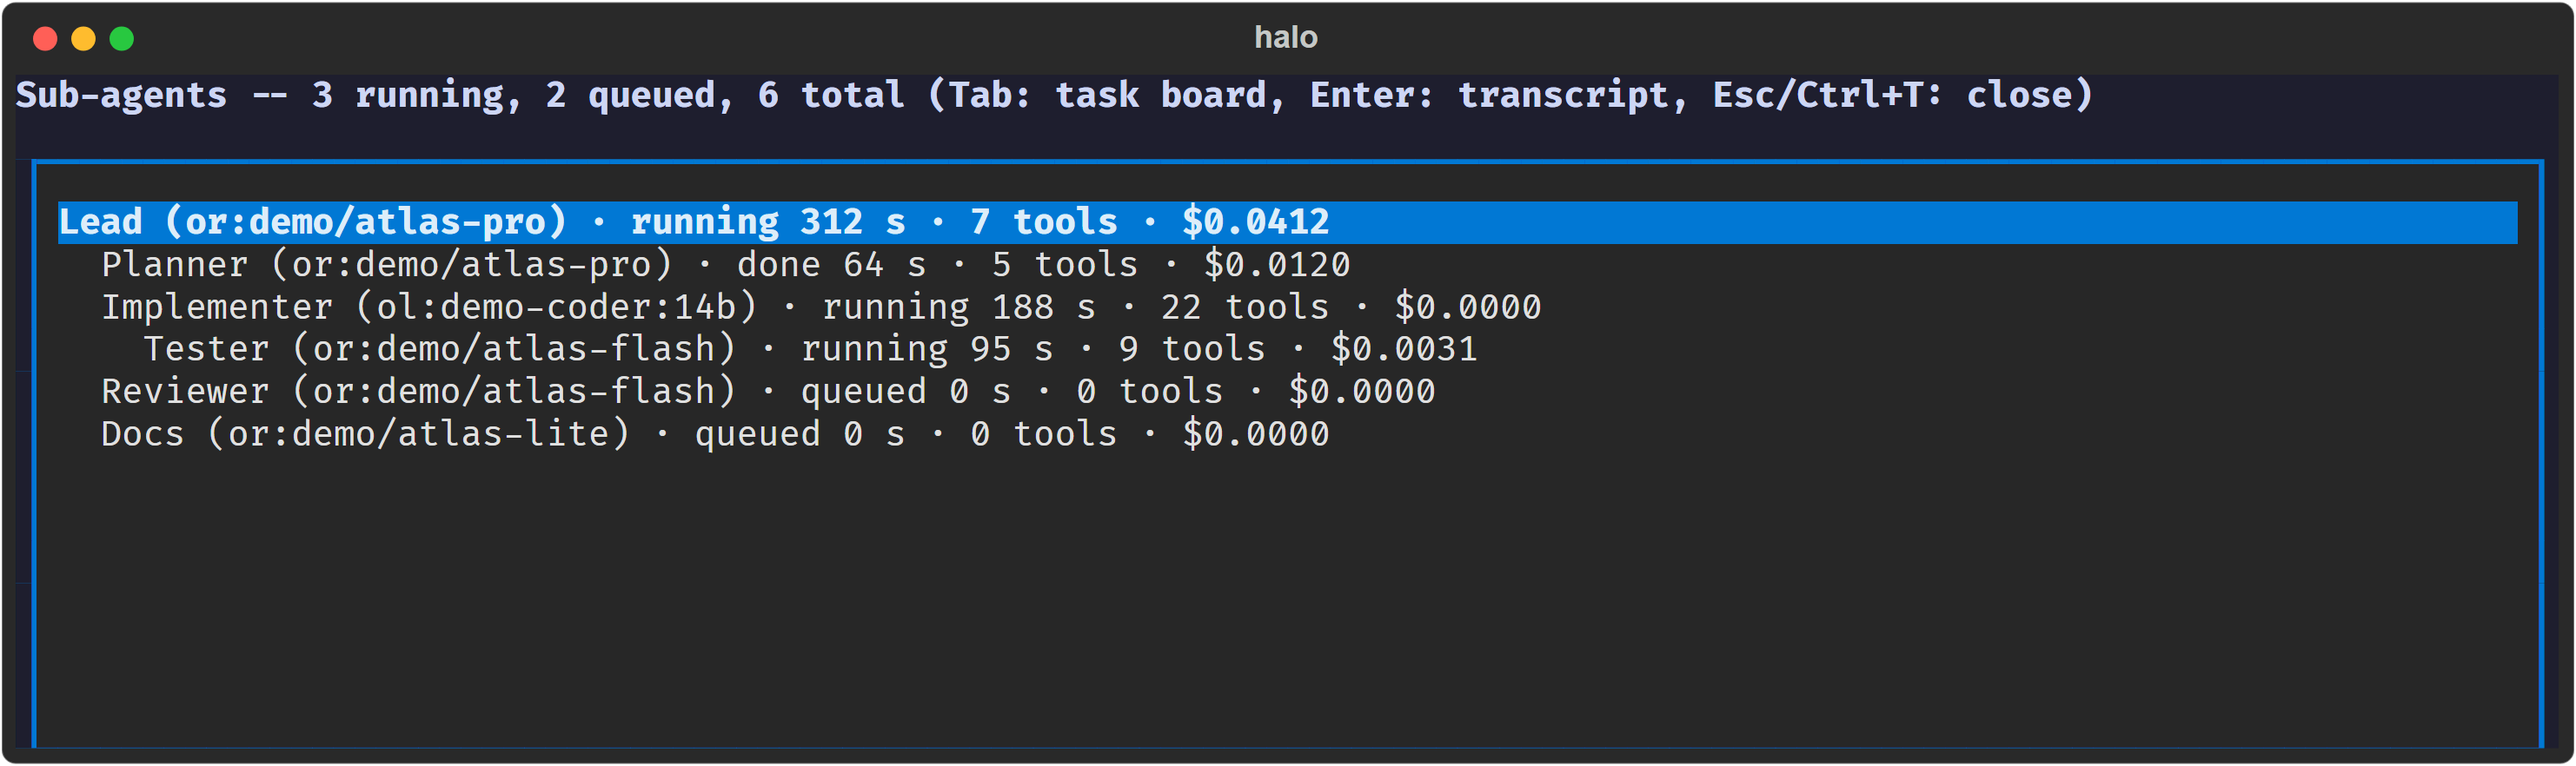
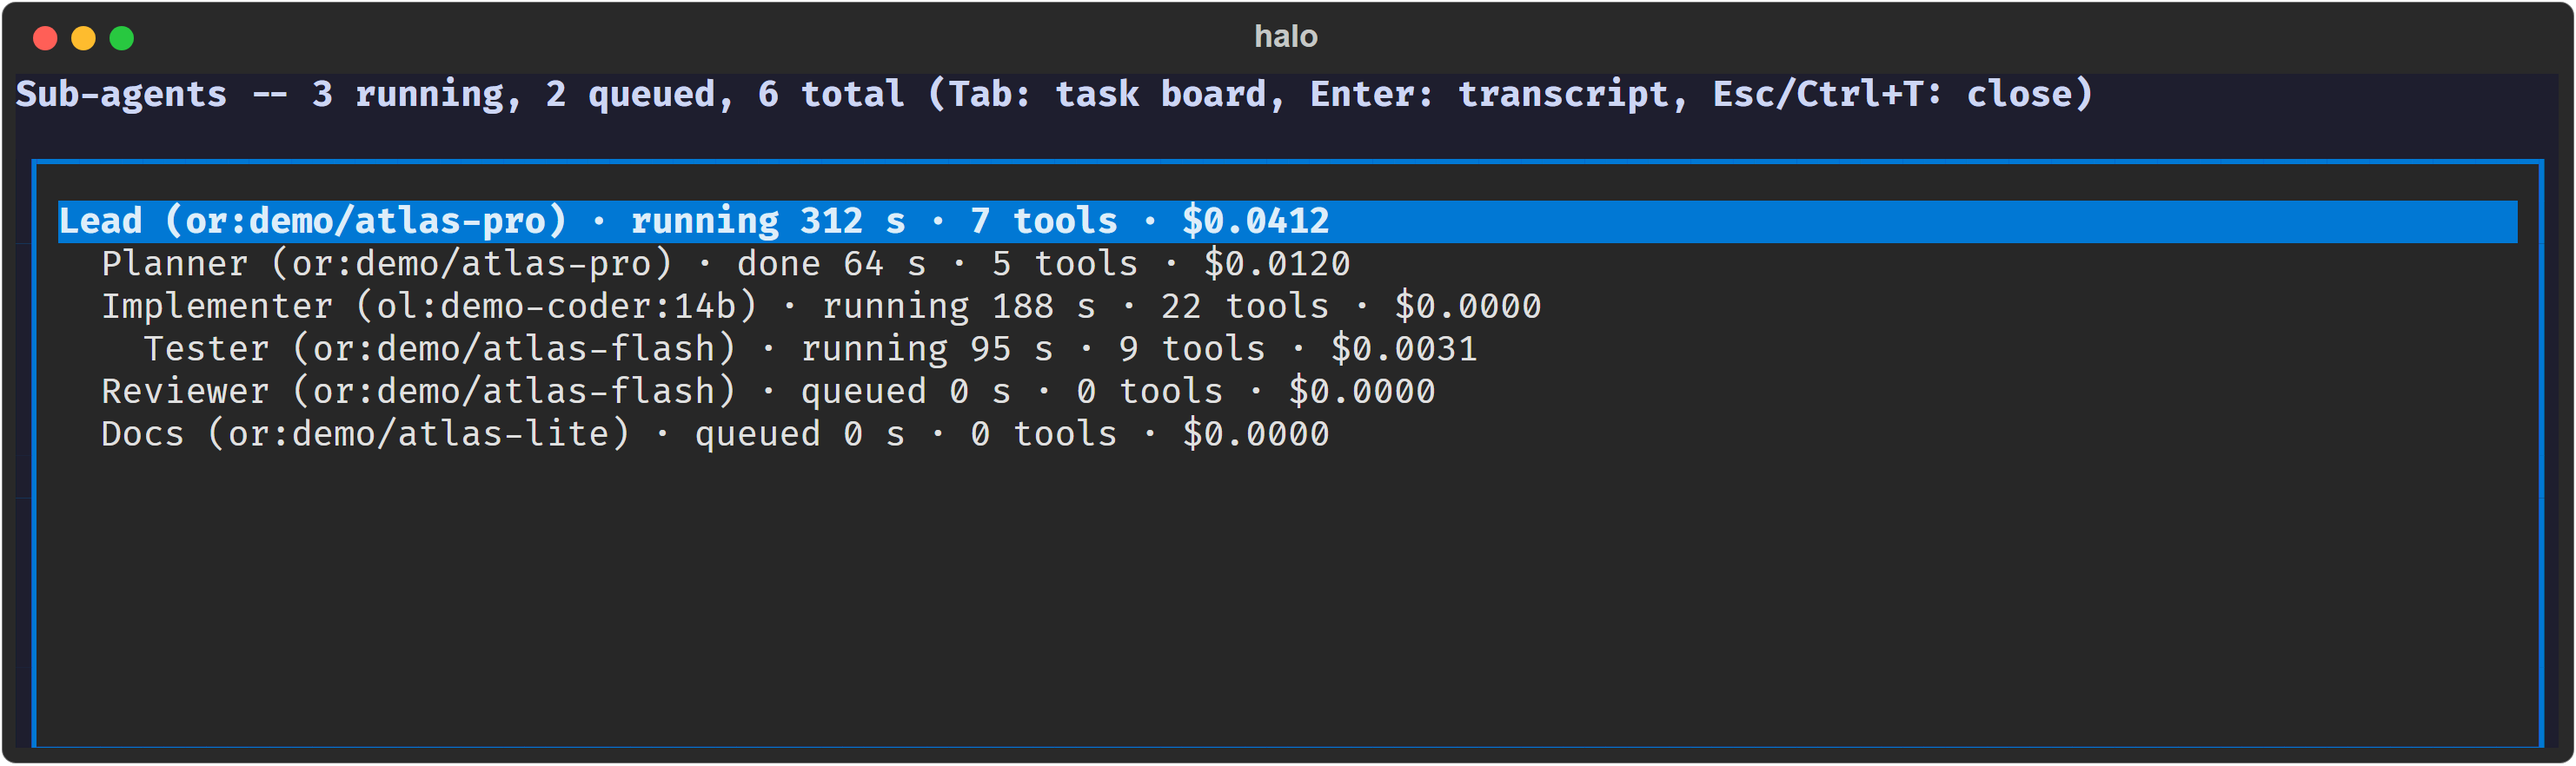
fix(media): 2.0.11 round A1 -- every generated SVG carries an explicit size
Textual's export writes a viewBox only; an SVG with no intrinsic size lays
out at ~300x150 px in any <img>, so GitHub's file view showed every capture
as a thumbnail. sized_svg() in scripts/screenshots.py adds width/height to
every export, the animation assembler writes them on its root, all 24
capture SVGs are regenerated, and test_front_page_media pins the attribute.

Claude-Session: https://claude.ai/code/session_01LrpUQGpHrLgRQyvGKrL11z

diff --git a/tests/test_front_page_media.py b/tests/test_front_page_media.py
@@ -106,6 +106,28 @@ def test_diagrams_and_hero_exist_and_are_small(ctx: Ctx):
 
 
 @test
+def test_every_svg_has_an_explicit_size(ctx: Ctx):
+    """2.0.11 round A1: a viewBox-only SVG has no intrinsic size, so an
+    <img> of it (GitHub's file view, the page a README click opens) lays it
+    out at about 300x150 px -- every capture showed as a thumbnail. The
+    export helper (`scripts/screenshots.py::sized_svg`) and the animation
+    assembler now write `width`/`height`; this pins every committed SVG."""
+    root = re.compile(r"<svg\b[^>]*>")
+    svgs = sorted(MEDIA.rglob("*.svg")) + sorted((REPO_DIR / "docs" / "screenshots").glob("*.svg"))
+    ctx.check(f"found the committed SVGs, got {len(svgs)}", len(svgs) >= 20)
+    for path in svgs:
+        tag = root.search(path.read_text(encoding="utf-8")[:4000])
+        head = tag.group(0) if tag else ""
+        ctx.check(f"{path.relative_to(REPO_DIR).as_posix()} root carries width and height",
+                  ' width="' in head and ' height="' in head)
+    sys.path.insert(0, str(REPO_DIR / "scripts"))
+    from screenshots import sized_svg
+    once = sized_svg('<svg class="rich-terminal" viewBox="0 0 1482 928.4" xmlns="x">\n</svg>')
+    ctx.check("sized_svg adds width/height from the viewBox", 'width="1482" height="928.4" viewBox="0 0 1482 928.4"' in once)
+    ctx.check("sized_svg is idempotent", sized_svg(once) == once)
+
+
+@test
 def test_media_carries_no_real_paths_hosts_or_versions(ctx: Ctx):
     bad = re.compile(r"C:\\Users|C:/Users|/home/[a-z]|/Users/[A-Za-z]|AppData|\b(?:10|192\.168|172\.(?:1[6-9]|2\d|3[01]))\.\d+\.\d+(?:\.\d+)?\b")
     for path in sorted(MEDIA.rglob("*.svg")):

diff --git a/scripts/screenshots.py b/scripts/screenshots.py
@@ -144,7 +144,25 @@ async def _export(app, pilot, stage=None) -> str:
         if getattr(app, "cwd", None):
             bar.cwd = str(app.cwd).replace("\\", "/")
         bar._refresh_display()
-    return re.sub(r"terminal-\d+-", "terminal-0-", app.export_screenshot())
+    return sized_svg(re.sub(r"terminal-\d+-", "terminal-0-", app.export_screenshot()))
+
+
+_VIEWBOX = re.compile(r'(<svg\b[^>]*?)\s+viewBox="0 0 ([\d.]+) ([\d.]+)"')
+
+
+def sized_svg(svg: str) -> str:
+    """Give the Textual export an explicit `width`/`height` matching its
+    viewBox (2.0.11 round A1). Textual writes a viewBox only; an SVG with
+    no intrinsic size is laid out at the replaced-element default of about
+    300x150 px wherever it sits in an <img> -- GitHub's file view, the page
+    a README click opens, showed every capture as a thumbnail. Idempotent:
+    a root tag that already carries a width is returned unchanged."""
+    m = _VIEWBOX.search(svg)
+    if not m or re.search(r'<svg\b[^>]*\bwidth=', svg[:m.end()]):
+        return svg
+    w, h = float(m.group(2)), float(m.group(3))
+    head = f'{m.group(1)} width="{w:g}" height="{h:g}" viewBox="0 0 {m.group(2)} {m.group(3)}"'
+    return svg[:m.start()] + head + svg[m.end():]
 
 
 async def _seed_bios() -> None:

diff --git a/tools/capture_screens.py b/tools/capture_screens.py
@@ -80,7 +80,8 @@ def assemble_animation(frames: "list[str]", seconds: "list[float]") -> str:
     cannot collide) whose `visibility` is stepped by a discrete <animate>."""
     width, height = viewbox(frames[0])
     total = sum(seconds)
-    out = [f'<svg class="rich-terminal" viewBox="0 0 {width:g} {height:g}" xmlns="http://www.w3.org/2000/svg">',
+    out = [f'<svg class="rich-terminal" width="{width:g}" height="{height:g}" viewBox="0 0 {width:g} {height:g}" '
+           'xmlns="http://www.w3.org/2000/svg">',
            f"<!-- {len(frames)} frames, {total:g} s loop; assembled by tools/capture_screens.py -->"]
     start = 0.0
     for i, (frame, dur) in enumerate(zip(frames, seconds)):

diff --git a/CHANGELOG.md b/CHANGELOG.md
@@ -8,6 +8,19 @@ across the 0.3.x line -- each 0.3.0 milestone below was a working
 checkpoint toward the single 0.3.0 release, not a separate published
 version.
 
+## [2.0.11] - unreleased
+
+### The front page
+
+- **Every generated SVG has an explicit size** (round A1). Textual's export
+  writes a `viewBox` only, and an SVG with no intrinsic size is laid out at
+  the replaced-element default of about 300x150 px wherever it sits in an
+  `<img>` -- GitHub's file view, the page a README click opens, showed every
+  capture as a thumbnail. `scripts/screenshots.py::sized_svg` now adds
+  `width`/`height` to every export (and the animation assembler to its root),
+  all 24 capture SVGs are regenerated, and `tests/test_front_page_media.py`
+  pins the attribute on every committed SVG so the bug cannot return.
+
 ## [2.0.10] - 2026-10-11
 
 ### Front page: real captures, diagrams, the stories

diff --git a/docs/MEDIA.md b/docs/MEDIA.md
@@ -44,6 +44,16 @@ PNG rendering needs Chrome or Chromium (`--headless=new`). The tool looks for
 SVGs, prints that the PNG step was skipped and exits 0; there is no Python
 dependency for any of this.
 
+## Every SVG carries an explicit size
+
+Textual's export writes a `viewBox` only. An SVG with no intrinsic size is
+laid out at about 300x150 px wherever it sits in an `<img>` -- GitHub's file
+view, the page a README click opens, rendered every capture as a thumbnail.
+`scripts/screenshots.py::sized_svg` adds `width`/`height` (the viewBox's own
+numbers) to every export, the animation assembler writes them on its root,
+and `tests/test_front_page_media.py` fails on any committed SVG without them.
+A hand-drawn SVG (the hero, the diagrams) must carry them too.
+
 ## What is deterministic and what is not
 
 - **Deterministic:** every SVG, including the animations. A rerun produces
